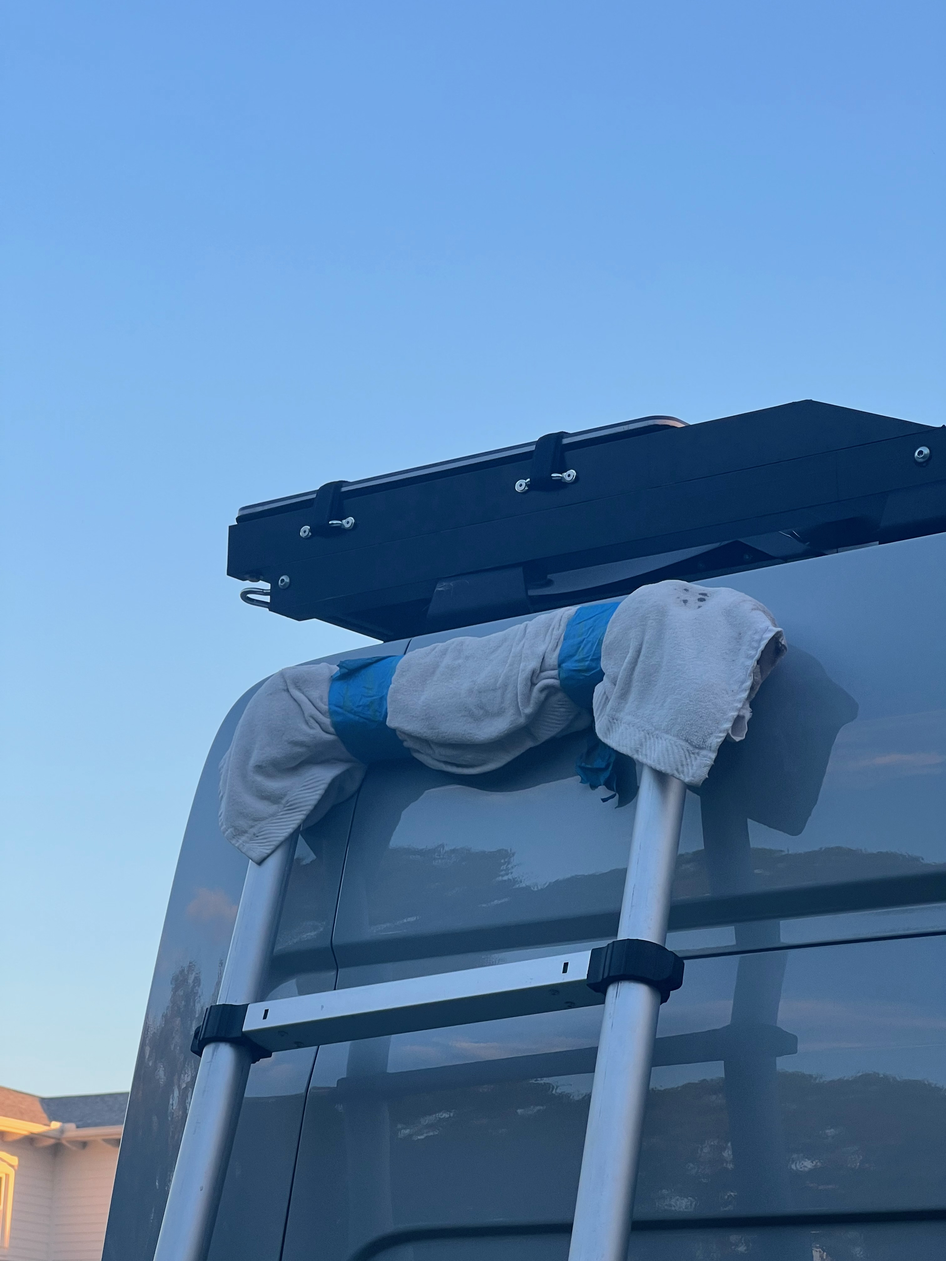
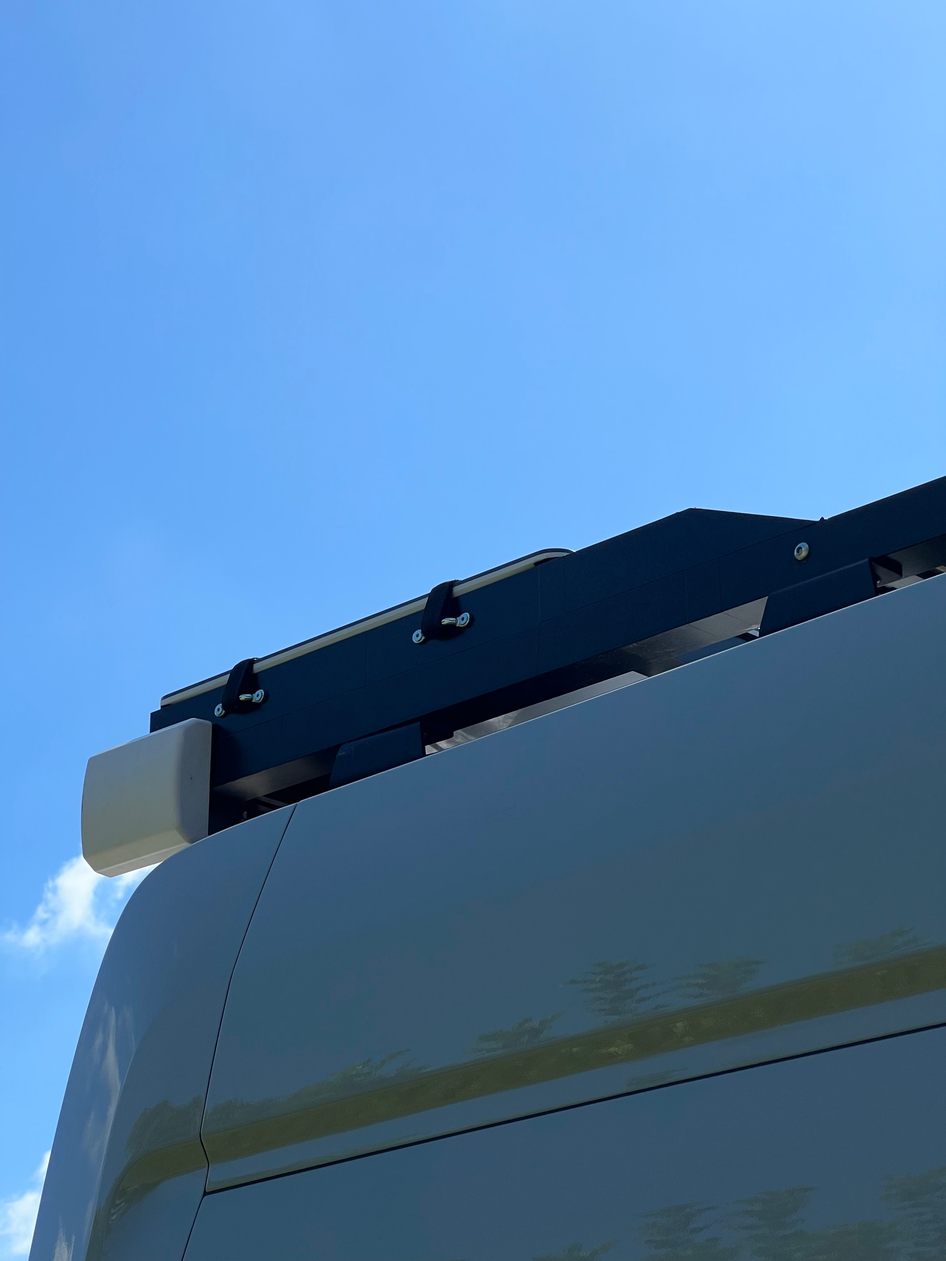
finished body for starlink and added better pics

diff --git a/blog/2022-5-13-starlink/starlink.md b/blog/2022-5-13-starlink/starlink.md
@@ -1,12 +1,15 @@
 Notes:
 
+**TLDR: Starlink is a game changer for RVs.  It's stock power consumption is not insignificant if used continuously.  For the daring, power consumption can be improved dramatically and mounting can be accomplished in an "always deployed" configuration.**
+
+
 ## General Thoughts and Experience
 
-We hooked up our Starlink for the first time on Hatteras Island in mid April of 2022.  We changed our service address to Hatteras (a generic address) and it connected immediately.  Starlink had just started rolling out roaming capability recently and after that first change in service address we never had to change it again (including two trips accross the country).
+We hooked up our Starlink for the first time on Hatteras Island in mid April of 2022.  We changed our service address to Hatteras (a generic address) and it connected immediately.  Starlink had just started rolling out roaming capability recently and after that first change in service address we never had to change it again (including two trips across the country).
 
 For us service has been pretty amazing from the beginning.  The only time we've had trouble connecting is in heavy tree cover in the Pacific Northwest, and unless its very heavy there is often still enough connectivity to stream.  However, for VOIP, Zoom, or anything realtime, you do need a fully unobstructed view of the Northish sky.
 
-Power usage isn't too bad but does add up: Running a multiplus just for Starlink (our only semi-continuous AC load) costs you ~20 watts at zero load. Add in the starlink and you're probably burning 80-100 watts total, 24/7.  I never bothered to suss it out exactly but it was not negligable in our daily energy balance (and we have a big system).  This can be improved, as discussed below.
+Power usage isn't too bad but does add up: Running a Multiplus just for Starlink (our only semi-continuous AC load) costs you ~20 watts at zero load. Add in the Starlink and you're probably burning 80-100 watts total, 24/7.  I never bothered to suss it out exactly but it was not negligible in our daily energy balance (and we have a big system).  This can be improved, as discussed below.
 
 ### Story Time: 
 
@@ -14,47 +17,51 @@ We were on Hatteras during a gnarly Nor'easter in early May that swept two house
 
 ## Phase 1 Use
 
-For the first 7 months, we used starlink "on label".  When camping throw dishy on the stand it came with and either throw it up on the roof (on a towel) or somewhere in a clear area within the 75ft limitation of the included cable.  We'd usually place the router in our garage area and fish the wire from the dish through the square hole under the passenger rear corner.  
+For the first 7 months, we used Starlink "on label".  When camping throw dishy on the stand it came with and either throw it up on the roof (on a towel) or somewhere in a clear area within the 75ft limitation of the included cable.  We'd usually place the router in our garage area and fish the wire from the dish through the square hole under the passenger rear corner.  
 
-After a few months of this, we got tired of fishing the cable into the van.  We'd just place the router outside of the rear windows and plug it into the outlet we have under the rear of the van (highly recommend - our favorite outlet).  Plenty of starlink router signal would penetrate the doors/windows to give a very solid internet connection to our internal network.  
+After a few months of this, we got tired of fishing the cable into the van.  We'd just place the router outside of the rear windows and plug it into the outlet we have under the rear of the van (highly recommend - our favorite outlet).  Plenty of Starlink router signal would penetrate the doors/windows to give a very solid internet connection to our internal network.
 
 A few notes related to this approach:  
 
 * The router, dish, and cabling are designed for outdoor use.  Anything short of submersion or water jets is fine I'd bet.
 
-* Our internal network would auto connect to the starlink router's wifi and use that as its internet source.  If this sounds interesting to you look into openwrt and a package called travelrouter.  If you aren't afraid of a linux command line its pretty straight forward.
+* Our internal network would auto connect to the Starlink router's wifi and use that as its internet source.  If this sounds interesting to you look into openwrt and a package called travelrouter.  If you aren't afraid of a linux command line its pretty straight forward.
+
+### Story Time:
+
+This method works pretty well until you accidentally drive off with a dish connected.  We did so in Oregon, the dish got pulled 20 ft up a rocky embankment along the Hood River at which point it anchored itself in some roots.  The cable let go from the dish and the router and cable trailed the van dragging on a gravel road for another 200 yards.  The cable was toast, but surprisingly, the dish and router worked fine with a new cable that we happened to have on hand.  A testament to luck and the product's construction.
 
 ## Phase 1 Storage
 
 Since we stowed our system while mobile (except one unfortunate time) we needed a storage solution.  Based on some useful facebook groups and subreddits we settled on this [Husky 12 Gal container](https://www.homedepot.com/p/Husky-12-Gal-Professional-Duty-Waterproof-Storage-Container-with-Hinged-Lid-in-Red-248921/313861297) which happens to fit a dish, stand, router, and cable quite well with 1/2" leftover minicell on the interior bottom and sides to give its innards a soft ride.
 
-That container also functions well as a step for about a week if you are under 175 lbs.  After that it will no longer function as a step, but will will store a starlink system fine, but with a cracked lid.  
+That container also functions well as a step for about a week if you are under 175 lbs.  After that it will no longer function as a step, but will will store a Starlink system fine, but with a cracked lid.  
 
 We highly recommend this box for storage.  There are some pelican cases that allegedly fit well, but there's probably more interesting things to spend that kind of money on.
 
-# Phase 2 Use and Storage
+![Husky Storage](husky.jpeg)
+_Maybe don't use as a step._
+
+## Phase 2 Use and Storage
 
 After six months of watching the hacking groups figure out the best ways to mount, disable motors, delete the router, and power from DC, we elected to do those all those things.
 
-## Requirements
+**Requirements:**
 
-1. We wanted to eliminate the work to deploy and undeploy the system for 90% of our campsites.  Flat mounting on the roof accomplishes this.  However, we did want to preserve the motor functions to orient the dish when mounted normally on a raised pole, or away from the van for the remaining 10% of our campsites.
+1. We wanted to eliminate the work to deploy and undeploy the system for 90% of our campsites.  Flat mounting on the roof accomplishes this.  However, we wanted to preserve the dish stem and motor function to orient the dish when mounted normally on a raised pole, or away from the van for the remaining 10% of our campsites.
 
-2. We wanted to eliminate the router.  The first reason was to have starlink hardwired into our network to eliminate unnecessary power and bandwidth loss associated with an unwanted extra wireless network.   The second, and more import reason was eliminate the the need for constant AC power and associated losses.
+2. We wanted to eliminate the Starlink router.  The first reason was to have Starlink hardwired into our network to eliminate unnecessary power and bandwidth loss associated with an unwanted extra wireless network.   The second, and more import reason was eliminate the the need for constant AC power and associated losses.
 
-## Implementation
+## Flat Mounting
 
-### Mounting
+For our roof design, the dish had to mount at the rear of the van.  This presented an opportunity for a lower profile mount while leaving the stem of dishy intact to satisfy our first requirement.  We found that we could take advantage of the roll off of the van roof to accommodate the angled stem.  This was somewhat dependent on our roof rack design and dimensions, but allows us to flat mount a "stowed" Starlink dish only 2 inches above the surface of our roof rack which is already pretty low.  It also meant we could use easily procured standard 6063 aluminum angle to build the mount (cradle) out of the limited tools we have at our disposal these days (drill, hacksaw, and a clamp).
 
-For our roof design, the dish had to go at the rear of the van.  This presented an opportunity with a lower profile while leaving the stem of dishy intact to satisfy our first requirement.  We found that we could take advantage of the roll off of the van roof to accomadate the angled stem.  This was somewhat dependent on our roof rack design and dimensions, but allows us to flat mount a "stowed" starlink dish only 2 inches above the surface of our roof rack which is already pretty low.  It also meant we could use easily procured standard aluminum angle to build the mount (cradle) out of the limited tools we have at our disposal these days (drill, hacksaw, and a clamp).
+The cradle consists of two pieces of 30.75" long 2x1x0.125" angle running fore-aft and two pieces of 11.75" long 1.75"x1.75"x0.125" angle running athwart.  The parts are bolted together to form a rectangle with an outer dimension that perfectly matches the edge of the dish.  There are 1/8" FR4 spacers (left over from the build) under the athwart angle to so that all edges of the rectangle are in plane.  Note, the 30.75" dimension was based on hitting a roof rack cross-member while allowing enough cradle overhang so the dish stem drops below roof level as the roof rolls off.  All metal was purchased cut from metal's supermarket, a fantastic source if you have a location near you (inquire about their cut tolerance though).  We also cut a 22.5 degree angle on the structure's edge that mounts near our solar panels to minimize any shading while the sun is a decent power producing angle.  If its helpful, [here is a basic Sketchup model](Starlink-mount.skp).
 
-
-The cradle consists of two pieces of 30.75" long 2x1x0.125" angle running fore-aft and two pieces of 11.75" long 1.75"x1.75"x0.125" angle running athart.  The parts are bolted together to form a rectangle with an outer dimension that perfectly matches the edge of the dish.  There are 1/8" FR4 spacers (left over from the build) under the athwart angle to so that all edges of the rectangle are in plane.  Note, the 30.75" dimension was based on hitting a roof rack crossmember while allowing enough cradle overhang so the dish stem drops below roof level as the roof rolls off.  All metal was purchased cut from metal's supermarket, a fantastic source if you have a location near you (inquire about their cut tolerance though).  We also cut a 22.5 degree angle on the structure's edge that mounts near our solar panels to minimize any shading while the sun is a decent power producing angle.  If its helpful, [here is a basic sketchup model](starlink-mount.skp).
-
-![](fitcheck.jpeg)  
+![fit check](fitcheck.jpeg)  
 _To verify our design worked we put it together with small amounts of VHB._
 
-![](fitcheck-dish.jpeg)
+![fit check with dish](fitcheck-dish.jpeg)
 _We also put this prototype up on the van rack, but neglected to take pictures._
 
 To match our rack and not have to deal with paint or powder coat, we [vinyl wrapped](https://www.amazon.com/gp/product/B07R53LJLL/) the cradle the same way we did our roof rack angle (which has held up fantastically). 
@@ -66,13 +73,52 @@ To give the dish a softer ride we added some 1/4" thick adhesive foam strip to t
 ![dish mounted and installed](installed-mounted.jpeg)
 _Cradle mounted with dish installed._
 
-### Router Delete
+## Alternate Mounting
 
-To replace the router, we needed to deal with the non-standard Power of Ethernet used by the starlink dish.  If you go the full DIY route this means crossing some ethernet strands, passing them through a POE injector powered at 48V, and the crossing them back.  This [guide](starlink-12-or-120-volt-and-wifi-router-delete-ver2) by Jim Taylor of the [Starlink for RVers and other mobile users facebook group](https://www.facebook.com/groups/starlinkrv/) goes into good detail on that approach. 
+To provide an option to get better visibility with trees around we decided to go with the [Flagpole Buddy Starlink kit](https://flagpolebuddy.com/ols/products/httpsflagpolebuddycomolsproductshttpsflagpolebuddycomolsproductsstarlink-kit-2nd-generation).  We considered a Harbor Freight telescoping flag pole but read to many complaints about them breaking.  Flagpole buddy was awesome to work with.  I reached out to them because their kit isn't compatible with the larger diameter tubing used in Aluminess products.  They had me send dimensions and within days notified me that they had printed compatible parts, and just to specify "Need Aluminess ladder modification caps" in the order notes.  Install was a breeze.  The kit ships with two pole segments that gets you about 13 ft off the ground depending on how you mount it.  We plan to order two more segments to get us over 20ft.  Highly recommend this product if you are looking for a similar mounting method.
 
-Instead, we elected to make use of a board that does both of these things called the [dishypowa](https://dishypowa.com/) made by a small business in Australia.  We highly recommend going that route as it keeps the RJ-45 terminations standard.  They also sent candy treats and nice adhesive mounts that the board screws to.
+![flagpole buddy](flagpole.jpeg)
+_Appears to be a solid well thought out product._
 
-We took the dishypowa board, [this 24-48V converter](https://www.amazon.com/dp/B089M7FVLJ), [this blue sea terminal board](https://www.amazon.com/dp/B0000AZ6TZ), and [this rocker switch](https://www.amazon.com/dp/B08R5PLDBP), and packaged them into [this project box](https://www.amazon.com/dp/B09T6NFRXH).  We did some fairly crude modifications and strain relief, used a little VHB here and there, and arrived at a completed POE Box.
+## Motor Disable
+
+To make use of our new mount, we needed a way to disable the motors that control the stem of the dish during power up and initial positioning.  The "Starlink To Go" facebook group has a [decent post](https://www.facebook.com/groups/Starlinktogo/permalink/409284207818149) detailing how to do this.
+
+We placed our hole 5" from each side, along the contour of the back of the dish.  I'd recommend marking some paper as a template that you can lay over the back to mark your drill point.  This puts the connector in reach while dodging two internal structural reinforcements.
+
+We used a standard 3/4" hole saw.  If you are really concerned about punching through, you can build up a thickness of duck tape (or any tape) around the hole saw to act as a drill stop.  In this location the connector and circuit board are probably 1.5-2" below the back surface of the dish.
+
+We thankfully (maybe) had a spare broken dish on which to practice the surgery. 
+
+Once you drill the hole there will be a black cable connected to the circuit board.  It is pretty easy using curved tweezers or a curved hemostat to compress the connector to release the clip.  On dish number one, we were able to fish out about 3 inches of cable.  On dish number two, we had to carefully pass the connector around a nearby internal stiffening feature to get a few inches.  We were able to do so by feel and reaching a finger though the hole.  Others have had to drill a second hole to aid with this.
+
+![Motor Connector](motor-connector.jpeg)
+_This is what you are working with._
+
+We used [this allegedly waterproof double pole toggle switch](https://www.amazon.com/dp/B008DG86SQ) for our disable/enable switch.  We used these [pigtails](https://www.amazon.com/dp/B08F784R9W) to make our life easier.
+
+We trimmed back all the jackets and cut the red and black wires about halfway down the slack.  Beware, these wires are tiny.  Probably 22 or 24 AWG.  We used crimped butt connectors and heat shrink to join our pigtails.  We found later that we had crushed/severed the black connection with this method.  For that repair we used a soldered western union splice with heat shrink.  If we had to do it all over again, we use that same method on all four joints.
+
+Reconnecting the motor plug was quite difficult.  We'd say curved stout tweezers or hemostats are required.  There is not enough room or the right orientation for straight tweezers or needle nose pliers.  Also the clip on that connector is fragile.  We broke it on the first test dish such that it wouldn't lock in place.  Avoid grasping the connector in a way that puts force on the clip/tab.
+
+We connected pig tails to the switch and tested.  Do not seat the switch into the hole until you have fully tested!
+
+As I mentioned, we had severed the black wire without knowing.  That resulted in what looked like normal behavior at first but a stuck motor warning after a few minutes during final positioning.  No idea why that is, but our repeated testing/troubleshooting showed clearly the black wire is not involved in initial dish angle and rotation movement, but is critical later.  After the stuck warning, the dish is able to automatically return to the stowed position with the black wire disconnected upon reboot.  Maybe its a sensor feedback wire...not sure.  The dish will not move at all if the red wire is disconnected.  Hopefully if you attempt this modification none of this information will matter.
+
+After we got that all sorted, we opted to use some 3M 5200 we had on hand to properly seal the switches boot to the back of the dish.  Without doing this water could easily ingress into the hole.
+
+If we did it again, we would consider going with a larger hole, using a rubber grommet/disk to fill the larger hole, and installing the switch into the grommet/dish.  That might make things easier.
+
+![switch](switch.jpeg)
+_We're past pretty at this point._
+
+## Router Delete
+
+To delete the Starlink router, we needed to deal with the non-standard Power of Ethernet used by the Starlink dish.  If you go the full DIY route this means crossing some ethernet strands, passing them through a POE injector powered at 48V, and the crossing them back.  This [guide](Starlink-12-or-120-volt-and-wifi-router-delete-ver2) by Jim Taylor of the [Starlink for RVers and other mobile users facebook group](https://www.facebook.com/groups/Starlinkrv/) goes into good detail on that approach. 
+
+Instead, we elected to make use of a board that does both of these things called the [DishyPowa](https://DishyPowa.com/) made by a small business in Australia.  We highly recommend going that route as it keeps the RJ-45 terminations standard.  They also sent candy treats and nice adhesive mounts that the board screws to.
+
+We took the DishyPowa board, [this 24-48V converter](https://www.amazon.com/dp/B089M7FVLJ), [this blue sea terminal board](https://www.amazon.com/dp/B0000AZ6TZ), and [this rocker switch](https://www.amazon.com/dp/B08R5PLDBP), and packaged them into [this project box](https://www.amazon.com/dp/B09T6NFRXH).  We did some fairly crude modifications and strain relief, used a little VHB here and there, and arrived at a completed POE Box.
 
 ![POE box internals](poe-box-internal.jpeg)
 _POE box internals._
@@ -80,135 +126,61 @@ _POE box internals._
 ![POE box closed](poe-box.jpeg)
 _POE box exterior view._
 
+For our chosen router delete method using the DishyPowa board, we need to cut off the proprietary connector and re-terminate to RJ-45 per T568B. The supplied Starlink cable is actually CAT5E dressed up with special waterproof connections.
 
-To delete the router, first we replaced our previous rooftop penetration box with a larger box fitted with shielded ethernet couplers.  
+We used [these shielded RJ-45 terminations](https://www.amazon.com/dp/B07K6DDVV1) because they are shielded, support 25-26AWG CAT5E cable, and we already had a standard RJ-45 crimper on hand.  It was fussy and difficult to verify the correct locations of the individual wires.  If we had to do it again we'd pickup a pass-through connector crimper and pass-through connectors.  We'd also have an independent triple check on that the terminated wire locations were correct.  If you get this wrong you can smoke both your DishyPowa board AND your Starlink dish, don't ask how we know.  I'd also recommend you go ahead and terminate the left-over end that connects to the Starlink router.  This lets you use one of [these shielded couplers](https://www.amazon.com/dp/B071NVVB6M) to test that everything still works properly and that the terminations are good.
 
+We used [these shielded waterproof RJ-45 panel mount couplers](https://www.amazon.com/dp/B09XM37H79) for our new roof pass through box.  These are actually shielded.  Choose wisely and test: [These couplers](https://www.amazon.com/gp/product/B08CDD2BRF) claim to be shielded but were not based on a DMM check.  We used [this box](https://www.amazon.com/dp/B08K79YJNJ).  The key characteristic was the side with no preexisting cable glands.  That gave us space to install three of the ethernet couplers.  We used [this hole saw](https://www.amazon.com/dp/B0B467X2B2) to make the holes for the couplers.  The extra two couplers are for future flexibility (e.g. and outdoor wifi AP).  We'll document the other details of this pass through elsewhere but in short it uses a 1" bulkhead fitting and closed cell foam to create the seal.  That approach has worked leak-free for 7 months on the road though all kinds of driven rain.
 
-According to the hacking groups, maintaining a connected shield over the entire wire run is important.  Our approach involved cutting of the proprietary connector on the starlink router-side and reterminating with a shielded RJ-45 per T568B.  
+![Roof Pass Though](roof-passthrough.jpeg)
+_We can't imagine needing to bring more wire/cable to the roof than this thing will allow._
 
-We used [these shielded RJ-45 terminations] because we already had a normal RJ-45 crimper.  It was fussy, and difficult to verify the individual wiers  
+Lastly, we ran 3 of [these 25ft shielded ethernet cables](https://www.amazon.com/dp/B0714FJBTW) from the "network closet" inside the van up to the roof passthrough box and connected them to the inside-side couplers.  The key characteristics of those cables are they are shielded, CAT5E or better, and 23AWG.  Many cables have thinner gauge wire that can result in too much voltage drop to properly power the dish.
 
+## Fin
 
+Thats it.  We flipped off the dish motors, mounted the dish in its cradle,  plugged it into a rooftop coupler, plugged the corresponding interior cable into the POE box, plugged a data cable from our own router to the POE box, and fired everything up.  Everything worked (the second time - after we fried our first dish and DishyPowa board).  All phase two requirements satisfied.  Lastly, to use the Starlink App after the router delete, you may need to setup some static routes on your router, refer to google.
 
+## Misc
 
-Deployed:
-Dishy will sit atop a [Flag Pole Buddy](https://flagpolebuddy.com/ols/products/httpsflagpolebuddycomolsproductshttpsflagpolebuddycomolsproductsstarlink-kit-2nd-generation).  The lowest element of the flag pole will be mounted to the vertical element of the aluminess passenger door carrier.  Flag Pole Buddy doesn't have an off-the-shelf adapter to mount to a the aluminess tubing (1.625").  Based on a call they asked that I email the dimensions (sasia@flagpolebuddy.com) and they'd pass them to thier designer and get back to me. Flag Pole Buddy reached out on 10-14-2022 and stated that the designer made custom "caps" suitable for the Aluminess tube dimensions.  Place order, in the "special instructions" section add: "Need aluminess ladder modification caps". (Ordered)
-
-We considered the Harbor Freight telescoping flag pole but have decided against it based on reported failures of the telescoping mechanism.
-
-Dishy's cable, left long enough to fully extend the flagpole and use the original stand, will be reterminated with a shielded RJ45 connector.  This will plug into a waterproof RJ45 shielded coupler installed in the roof pass through box.  A shielded 23AWG cable will run from the inside of the roof pass through box to the POE box located in the "network closet".
-
-Deployed Components:
-* [Flag Pole Buddy Starlink Kit](https://flagpolebuddy.com/ols/products/httpsflagpolebuddycomolsproductshttpsflagpolebuddycomolsproductsstarlink-kit-2nd-generation).
-* [~~roof-pass-through box~~](https://www.amazon.com/gp/product/B089LLX8RK/) - Gland holes too large for ethernet couplers.
-* [roof-pass-through box](https://www.amazon.com/gp/product/B08K79YJNJ/)
-* [Shielded 25ft 23AWG CAT6 run from POE Box to roof pass-through x3](https://www.amazon.com/Ethernet-IMONTA-Resistant-Waterproof-Buried-able/dp/B0714FJBTW/).  The extra two runs will be used for other applications (e.g., wifi-as-wan, external wifi AP).
-
-
-POE Box:
-The POE box will receive 24V power via a #8 terminal block.  It will contain a 24-48V (or 24-56V) boost converter.  It will have a rocker switch to cut power to the boost converter and all downstream components.  The boost converter will provide 48V (or 56V) to a [DishyPowa POE injector](https://dishypowa.com/).  The DishyPowa POE injector within the box contains two RJ45 sockets, one for the router, and one for data + POE to dishy.  The DishyPowa injector will perform wire swaps needed for dishy power.  
-
-I was unable to find a 24V-56V converter with decent efficiency (>90%).  There are several 24-48V options available.  We'll try that and see if we have any problems.
-
-POE Box to Roof Gland:
-* [23AWG shielded ethernet cable 25ft](https://www.amazon.com/GearIT-Cat6-Outdoor-Ethernet-Cable/dp/B0874799NB?th=1). Ordering alternative from above.
-
-POE Box Components:
-* [Project box](https://www.amazon.com/LeMotech-Stainless-Waterproof-Electrical-Electronics/dp/B09T6NFRXH/?th=1).  This box is large enough to contain all components (with converter and switch mounted on lid).  68mmx99mm Internal.
-* [DishyPowa](https://dishypowa.com/). 51mmx72mm
-* [24-48V converter](https://www.amazon.com/gp/product/B089M7FVLJ/).  This converter can supply sufficient power. 74mmx72mm.  Mounted (VHB) to lid of box.
-* [Rocker switch](https://www.amazon.com/gp/product/B08R5PLDBP/?th=1). 20AWG pigtails which are sufficient. 20mm diameter.
-* [Terminal Block](https://www.amazon.com/Blue-Sea-Systems-Circuit-Terminal/dp/B0000AZ6TZ/ref=sr_1_1?crid=6CQF0J3PKDX9&keywords=2502%2Bblue%2Bsea&qid=1665509883&qu=eyJxc2MiOiIwLjg4IiwicXNhIjoiMC4wMCIsInFzcCI6IjAuMDAifQ%3D%3D&s=industrial&sprefix=2502%2Bblue%2Bsea%2Cindustrial%2C138&sr=1-1&th=1&psc=1).  #8 terminals 54mmx34mm.  Mounted (VHB) to underside of lid of box.
-
-Roof Gland Box:
-* [Shielded RJ45 couplers](https://www.amazon.com/gp/product/B09XM37H79/)
-* [~~Alternate RJ45 couplers~~](https://www.amazon.com/gp/product/B08CDD2BRF) - Ordered due to long delay on first choice.  Some comments report not waterproof and some report not shielded.  We'll see.  NOT SHIELDED based on DMM measurement.
-
-
-Starlink Mounting:
-The stem can tuck under/behind the rear crossbeam to minimize the height of the antenna.  With this arrangement, the surface of the unit need only rise 2" above the top of the rack sides and crossbeams.  This can be accomplished by building a rectangle with aluminum angle with dimensions that match the outline of the antenna (12" by 20.25").  6063 angle is available from metals supermarket in 2x1x0.125" (30.75" long) and 1.75x1.75x0.125" (11.75" across).  The cross pieces would bolt to the long with 1/8" spacers to flush the top edges.  Estimated weight using 1/8" is 3 ~lbs (7.3' x 0.42).  See sketchup model.  (Material ordered cut to length from Metals Supermarket at 4901 W. Rio Vista Ave. Suite A, Tampa, 33634)
-
-We'll cover with the same vinyl wrap as roof rack. (Ordered from Amazon)
-
-Plan to use velco straps to fasten.  Anchor velcro webbing with [these](https://www.mcmaster.com/8030T11/).
-
-Starlink Hack:
-We'll drill the hole, pull the motor power plug, and splice in a water proof switch.
-* [This waterproof switch](https://www.amazon.com/dp/B008DG86SQ) was recommended in the facebook group.
-* [These pigtailes](https://www.amazon.com/dp/B08F784R9W) fit the switch terminals and will add extensions to make the connections.
-* [These RJ45 connectors](https://www.amazon.com/gp/product/B07K6DDVV1/) should work with the starlink cable (24AWG CAT5E).
+### Useful links
 
 Starlink Motor Mod:
-[This page has good info](https://www.facebook.com/groups/starlinktogo/permalink/409284207818149).  The author suggests 5" x 5" for hole location for a 3/4" hole.  He also suggests using red and black wires to wire in the switch.
+[This page has good info](https://www.facebook.com/groups/Starlinktogo/permalink/409284207818149).  The author suggests 5" x 5" for hole location for a 3/4" hole.  He also suggests using red and black wires to wire in the switch.
 
-[This video](https://youtu.be/kCOgG6daDVE?t=187) goes with 5" x 5" along contour from edges with 1" hole.
+[This video](https://youtu.be/kCOgG6daDVE?t=187) goes with  hole located 5" x 5" along contour from edges with 1" hole.
 
 [This comment](https://www.facebook.com/photo.php?fbid=10158932786661334&set=p.10158932786661334&type=3) suggests connector is located 4" from bottom and 4.75" from edge.
 
-Troubleshooting:
-
-After initial wiring, we found that the dish would move to the horizontal position but would issue a stuck motor fault prior to moving into the final position.  Afterwhich it wouldn't respond to a stow command.
+### Troubleshooting Initial Motor Disable Issue (for posterity)
 
 Dish moves out of stowed position (can move at angle) and rotates (can rotate).  Upon reaching full extent of angle motion, it gives motor stuck warning.  Will not respond to stow commands once warning is given.  After placing face down and cycling power, it moves into stowed position and gives mast not vertical warning.  Upon restoring to proper orientation it moves back into "flat" position - actually just past flat at extent of travel allowed by body, and gives stuck motor warning.
 
-The first power up after mod, it seemed to "wiggle" anglewise when it tried to move into final position before it gave motor stuck warning.  Have not seen that since.
+The first power up after mod, it seemed to "wiggle" angle-wise when it tried to move into final position before it gave motor stuck warning.  Have not seen that since.
 
 Inserted ammeter on black line and never saw any current during startup or stow.
 
-No change in behavior with black wire disconnected completely.  Also clearly driving hard into limit of travel by body.  Makes me wonder if black wire is encoder or limit switch signal.
+No change in behavior with black wire disconnected completely.  Also clearly driving hard into limit of travel by body.  Perhaps black wire is encoder or limit switch signal.
 
-Based on this we guessed that the black wire must have been severed during the crimping process.  We cut one connection, and found continuity through the other.  Based on this we decided to go with a western union splice, soldered, and heat shrunk.  This solved the problem.
+Based on this black wire must have been severed during the crimping process.  Cut one side of black connection and found continuity through the other black splice (so good).  Repaired broken connection with western union splice, soldered, and heat shrunk.  This solved the problem.
 
+## Timeline
 
+Note: This doesn't reflect full time effort.  Its sporadic and limited by work, other projects, supply chain, and van availability.
 
-XX-XX-2022
-setup and used starlink for the first time
-
-8-6-2022
-Notified of availability and ordered DishyPowa POE injector.
-
-10-17-2022
-Ordered Angle, FlagPoleBuddy, Roof Gland Box, POE Box, Rocker Switch, Alternate Shielded Couplers, Terminal Block, Cat6 Cable, and 24-48V converter.
-
-10-19-2022
-Test fit with angle, concept works.  See photos from this date.
-Ordered waterproof switch and pigtails.
-Ordered webbing anchors.
-
-10-20-2022
-Test fit structure on van, works.  Just need to trim angle to lower the width by 1/8" and angle the ends to prevent shadowing solar panels.
-
-10-21-2022
-Retured Alternate Shielded Couplers, Ordered other shielded couplers.  Verified couplers will not work with rooftop box.  Ordered new box with fewer glands and will drill new holes for ethernet ports.
-Ordered shielded RJ45.
-
-10-24-2022
-Wrapped structure
-
-10-25-3022
-Built POE box
-Broke starlink (incorrect wiring)
-Ordered new dishypowa
-Spliced ethernet onto dishside
-
-10-26-2022
-Ordered new starlink
-Spliced ethernet onto routerside
-
-10-30-2022
-Confirmed with new cable that old dish is dead
-Confirmed with new dish that ethernet splices are SAT
-Routed ethernet from roof pen to network closet
-Tested roof pen ethernet connections and runs with dish and router, all SAT
-
-10-31-2022
-Drilled and wired in switch, incorrect behavior (see above).  Ultimately determined bad connection on black wire.
-
-11-1-2022
-Soldered black wire and heat shrank, all tests sat.
-Sealed waterproof switch with 5200.
-Replaced dishypowa
-Installed on van and tested SAT
+* Setup and used Starlink for the first time (4-19-2022)
+* Obtained Husky Box for storage (5-15-2022)
+* Notified of availability and ordered DishyPowa POE injector (8-6-2022)
+* Ordered angle, Flagpole Buddy, roof gland box, POE box, rocker switch, fake shielded couplers, terminal block, Cat6 cable, and a 24-48V converter (10-17-2022)
+* Test fit with angle, concept works.  Ordered waterproof switch and pigtails.  Ordered webbing anchors. (10-19-2022)
+* Test fit structure on van, works.  Trimmed angle to prevent shadowing solar panels. (10-20-2022)
+* Ordered new shielded couplers.  Ordered new rooftop box to allow drilling for ethernet ports.  Ordered shielded RJ45 terminations. (10-21-2022)
+* Vinyl wrapped structure (10-24-2022)
+* Built POE box. Broke Starlink and DishyPowa (incorrect T568B wiring). Ordered new DishyPowa. Re-terminated ethernet onto dish and triple checked. (10-25-3022)
+* Terminated ethernet onto Starlink router and triple checked.  Confirmed Starlink dish broken assuming terminations good.  Ordered refurbished Starlink. (10-26-2022)
+* Re-confirmed with brand new stock cable that old dish is dead.  Confirmed with new dish that ethernet splices are SAT. Routed ethernet from roof penetration to network closet. Tested roof penetration ethernet connections and runs with dish and Starlink router, all SAT. (10-30-2022)
+* Drilled and wired in switch, observed incorrect behavior (see above).  Determined bad connection on black wire. (10-31-2022)
+* Repaired black wire and heat shrank, all tests SAT. Sealed waterproof switch with 5200. Replaced DishyPowa. Installed on van and tested all mods, all SAT. (11-1-2022)
 
 
 

diff --git a/van/functional/comms/comms_overview.md b/van/functional/comms/comms_overview.md
@@ -72,7 +72,7 @@ The GL iNet [Amarok](https://www.gl-inet.com/products/gl-x1200/) which can house
 
 The Ubiquity [EdgeMax](https://www.ui.com/edgemax/comparison/) series supports multi-wan with balancing and failover.  Prices are pretty reasonable.
 
-Could also just use any device with good open-wrt support and run it using multwan.  This might be the most customizable.  Many cheap GL.inet devices could work.  The Amarok could also do it.  Looking at other GL.inet devices, no others seem to have dedicated external antennas inputs (two for MIMO, one for internal WiFi) and at least three ports (one for the wifi source, one for starlink, and one LAN to connect to switch).
+Could also just use any device with good open-wrt support and run it using multwan.  This might be the most customizable.  Many cheap GL.inet devices could work.  The Amarok could also do it.  Looking at other GL.inet devices, no others seem to have dedicated external antennas inputs (two for MIMO, one for internal WiFi) and at least three ports (one for the wifi source, one for Starlink, and one LAN to connect to switch).
 
 ### Cables and Accessories
 
